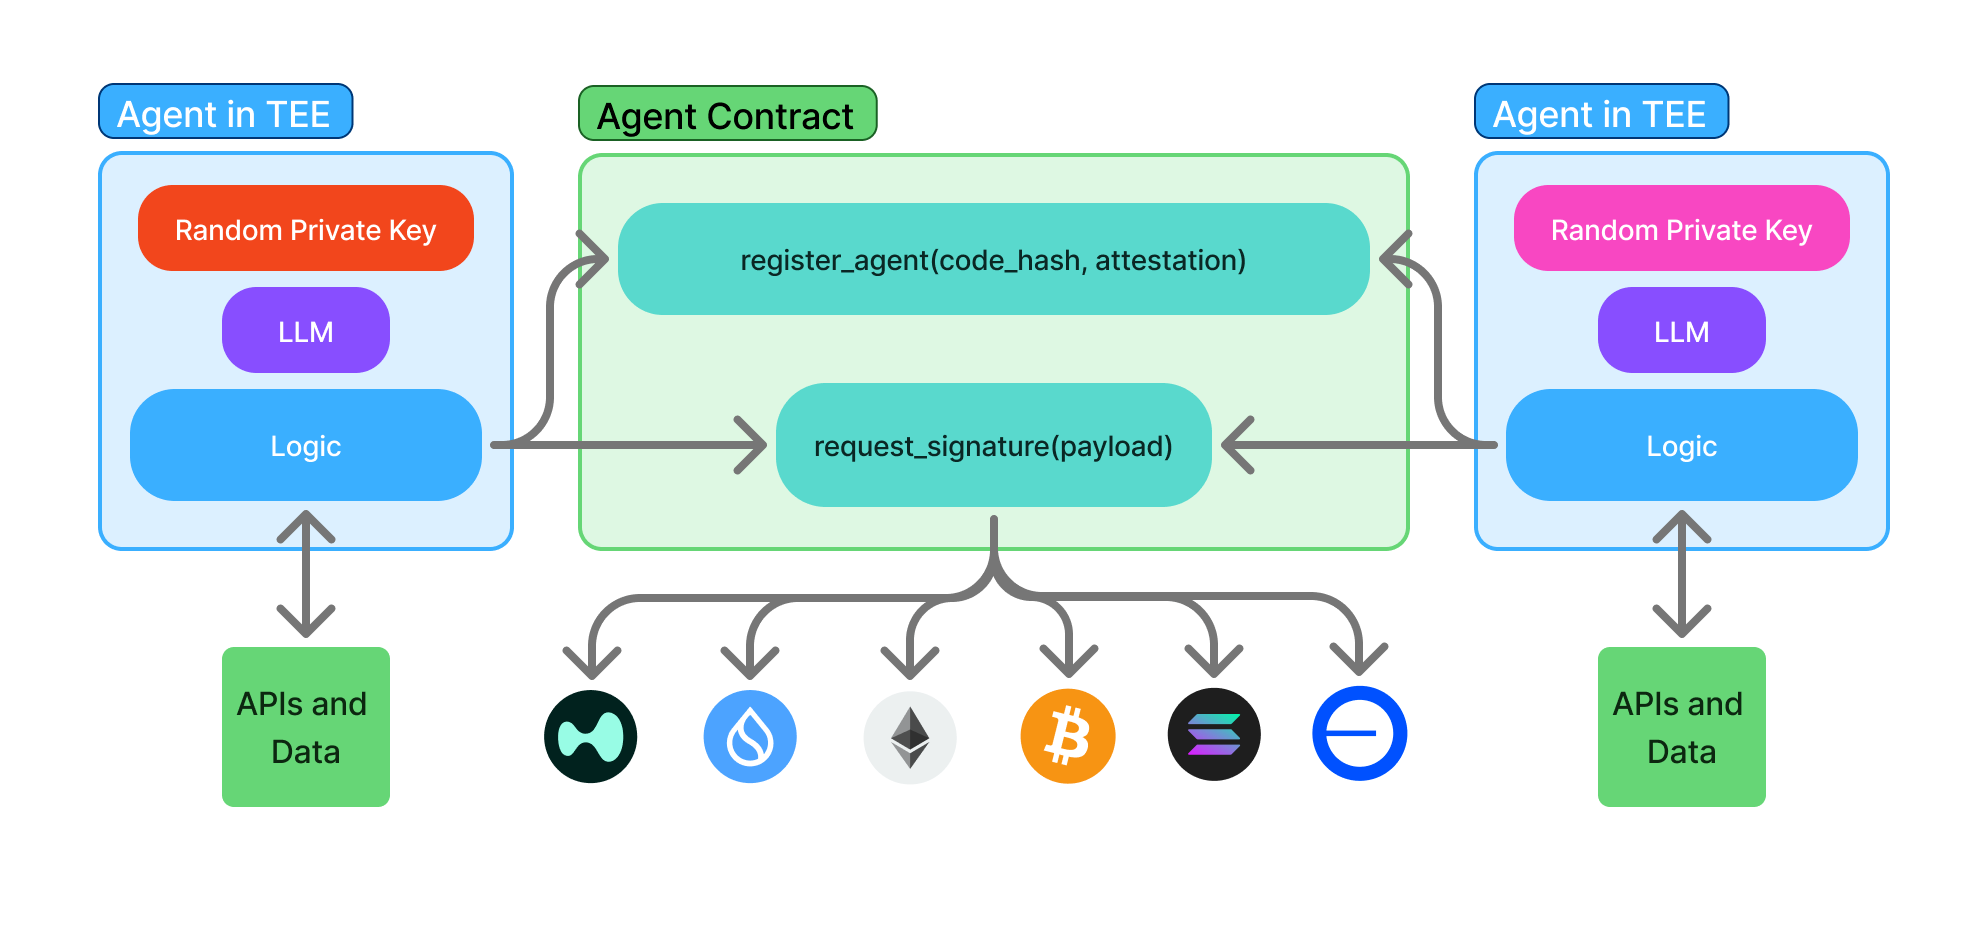
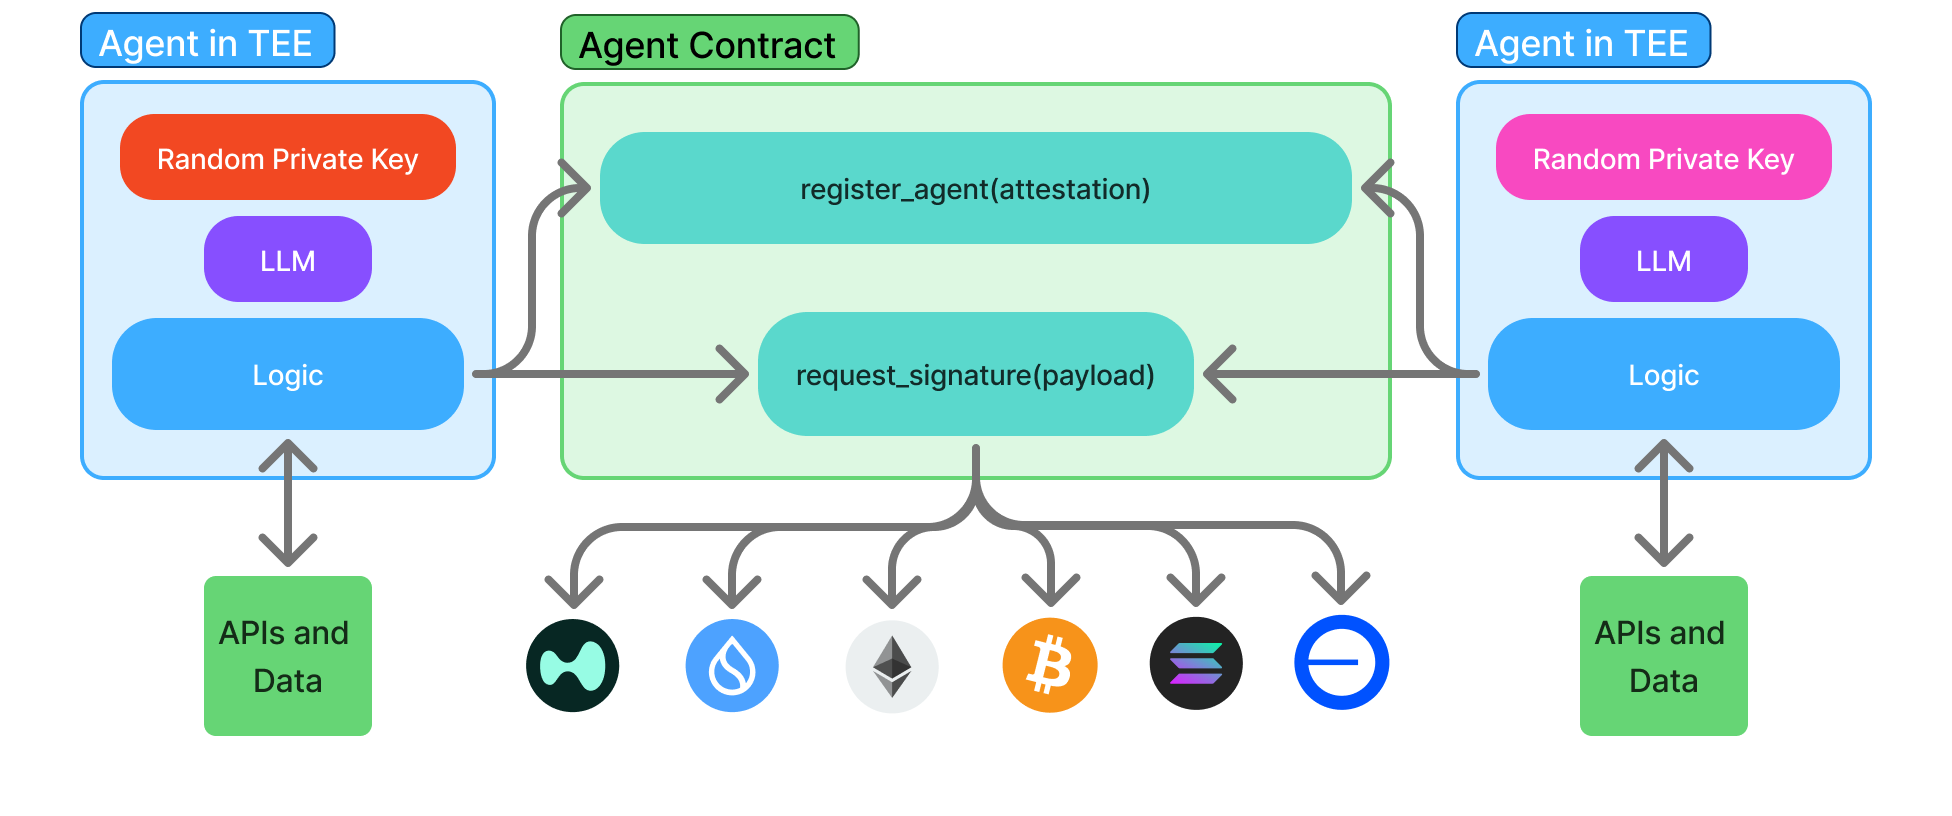
update shade intro roughly

Changed region(s): [[0.0312, 0.0, 0.9688, 0.9191]]

diff --git a/docs/ai/shade-agents/getting-started/introduction.md b/docs/ai/shade-agents/getting-started/introduction.md
@@ -5,6 +5,8 @@ sidebar_label: What are Shade Agents?
 description: "Learn about Shade Agents - decentralized and trustless AI agents that control accounts and assets across multiple blockchains using TEEs and NEAR's decentralized key management."
 ---
 
+import { SigsSupport } from '@site/src/components/sigsSupport';
+
 :::warning
 The Shade Agent Framework is experimental and contains known critical vulnerabilities.
 
@@ -15,17 +17,15 @@ No representations or warranties are made regarding security, correctness, or fi
 A production-ready version of the framework is currently in development.
 :::
 
-import { SigsSupport } from '@site/src/components/sigsSupport';
-
-The Shade Agent Framework allows developers to build decentralized and trustless AI agents that control accounts and assets across multiple blockchains.
+The Shade Agent Framework is a suite of tools for creating Web3 agents and off-chain services that are trust-minimized, decentralized, and verifiable. It leverages on-chain signing allowing agents to hold assets and sign transactions on most blockchains and implement strict guardrails to prevent unauthorized actions.
 
 Previous Web3 agents fall into one of two categories:
 1. They are trustless and verifiable by using a trusted execution environment (TEE), but if the TEE goes down, the private keys and funds of the agent are lost.
 2. The agent’s accounts are persistent, but the agents are centralized.
 
-Shade Agents provide verifiability and non-custody by operating in TEEs, but also persistent control of accounts by using NEAR's decentralized key management. Any instance of an agent running the same code inside a TEE can access the same accounts meaning you don't need to worry about private keys being lost or exposed. 
+Shade Agents provide verifiability and non-custody by operating in TEEs, but also persistent control of accounts by using NEAR's decentralized key management. Any instance of an agent running the same code inside a TEE can access the same accounts, meaning you don't need to worry about private keys being lost or exposed. 
 
-Thanks to combining TEEs with the NEAR tech stack, Shade Agents can autonomously sign transactions across any chain, interact with AI models and external data sources, manage assets, and perform privacy-preserving, verifiable computations, offering the flexibility and performance of Web2 with the verifiability of Web3.
+Thanks to combining TEEs with the NEAR tech stack, Shade Agents can autonomously sign transactions across most chains, interact with AI models and external data sources, manage assets, and perform privacy-preserving, verifiable computations, offering the flexibility and performance of Web2 with the verifiability of Web3.
 
 :::info
 Shade Agents power [Agentic Protocols](../concepts/what-can-you-build.md#agentic-protocols): a new type of decentralized application designed to be autonomous, proactive, and intelligent.
@@ -39,56 +39,60 @@ Shade Agents consist of two main components: the `agent` and the `agent smart co
 
 ![Shade Agent Architecture](/assets/docs/ai/shade-agent-stack-diagram.png)
 
-When an agent is booted up in a TEE, the `TEE's hardware-based entropy` generates a random private key and account. This private key is exclusively used to call the agent contract, not for storing funds.
+When an agent is booted up in a TEE, it generates a random ephemeral private key and NEAR account. This private key is exclusively used to call the agent contract, not for storing funds.
 
 <details>
 
 <summary>What is a TEE?</summary>
 
-A trusted execution environment is a secure area of a CPU that runs code in an isolated and protected way. This means one can verify that the expected code is running and its execution is not exposed outside of the enclave. TEEs produce attestations to prove that the code is running within a TEE and that it's running the specified code.
+A trusted execution environment is a secure part of a CPU that runs code in an isolated and protected way. Execution and state stay private, including from the host. TEEs produce cryptographic attestations that prove it's running certain code inside a genuine TEE.
 
 </details>
 
-The agent calls the `register_agent` function on the `agent smart contract`, providing two pieces of information generated inside the TEE:
-- A `remote attestation quote` (which proves it is running inside a genuine TEE).
-- The Docker image's SHA256 `code hash` (to prove that the expected code is running).
+The agent calls the `register_agent` function on the `agent smart contract`, providing its `attestation`. The attestation contains: 
+- A proof that it's running inside a genuine TEE.
+- The [measurements](../concepts/terminology.md#measurements) of the code running in the TEE (which uniquely identifies the code and platform it's running on).
 
-If the attestation quote is valid and the code hash matches the expected code hash of the agent (defined during the agent contract's deployment), the agent's account is approved as a valid agent inside the agent contract.
+If the attestation is valid, the measurements fit the approved measurements in the contract, and it's running on a certain machine (identified by a [PPID](../concepts/terminology.md#ppid)), then the agent's account is registered inside the agent contract.
 
-Once registered, the `agent` can call the `request_signature` function on the agent contract, enabling it to sign transactions on behalf of the Shade Agent. `request_signature` leverages [chain signatures](../../../chain-abstraction/chain-signatures.md) for decentralized key management, allowing the Shade Agent to hold assets and sign transactions on nearly any chain.
+Once registered, the `agent` can call the agent-gated functions on the agent contract. An example of this is the `request_signature` function, enabling it to sign transactions on behalf of the Shade Agent. `request_signature` leverages [chain signatures](../../../chain-abstraction/chain-signatures.md) for decentralized key management, allowing the Shade Agent to hold assets and sign transactions on nearly any chain.
 
-`Anyone` can deploy the same Docker image of the `agent` to a different TEE. Since the Docker image will have the same code hash, it can then be registered as a new valid agent, and thus gain access to signing transactions using the Shade Agent's accounts. This means the accounts are persisted across different TEE instances. To facilitate this functionality, agents are designed to be stateless.
+If `anyone` deploys the same code to a different TEE with the same measurements and PPID, it can also register in the contract, and thus gain access to signing transactions using the Shade Agent's accounts. This means the accounts are persisted across different TEE instances. To facilitate this functionality, agents are designed to be stateless.
 
 ---
 
 ## Agent Contract Functions
 
-The Agent Contract has three main functions:
+The Agent Contract has four main functions:
 
-#### Approve Code Hash
+#### Approve Measurements
 
-After the contract is deployed, a `code hash` is set to ensure that only agents running the correct code (i.e. it has the same code hash) can be registered in the agent contract.
+After the contract is deployed, a set of `measurements` is set to ensure that only agents running the correct code (i.e. it has the same measurements) can be registered in the agent contract.
 
-Developers or protocols may need to modify the code running inside agents over time. Because of this, when the contract is initialized an `owner` account ID is set. Only the owner can approve a new `code hash`.
+Developers or protocols may need to modify the code running inside agents over time. Because of this, when the contract is initialized, an `owner` account ID is set. Only the owner can approve a new set of `measurements`.
 
-The `shade-agent-cli` handles the deployment of the agent contract and automatically approves the code hash of your agent.
+The `shade-agent-cli` handles the deployment of the agent contract and automatically approves the measurements of your agent.
 
 :::tip
-Upgradeability can be designed for the specific use case. Common upgrade methods include approving a new code hash through DAO voting or implementing a grace period or cool down, allowing users to withdraw funds if they're uncomfortable with the incoming code hash for the new agent.
+Upgradeability can be designed for the specific use case. Common upgrade methods include approving a new set of measurements through DAO voting or implementing a grace period or cool down, allowing users to withdraw funds if they're uncomfortable with the incoming measurements for the new agent.
 :::
+
+#### Approve PPIDs
+
+Similar to how measurements are approved, the owner also approves a set of `PPIDs` to ensure that only agents running on specific machines can register.
 
 #### Register Agent
 
-The `register_agent` function verifies that the agent is running in a TEE and executing the expected code (as defined by the approved code hash). Upon successful verification, the agent's account ID becomes registered and gains access to transaction signing (request_signature).
+The `register_agent` function verifies that the agent is running in a TEE, is executing the expected code (as defined by the approved measurements), and is running on a certain machine (as defined by the approved PPIDs). Upon successful verification, the agent's account ID becomes registered and gains access to agent-gated functions.
 
-The `shade-agent-api` automatically registers the agent when booting up in the TEE.
+The `shade-agent-api` makes it easy to register; just use the `register` method.
 
 #### Request Signature
 
 The `request_signature` function serves as the gateway to access the Shade Agent's multichain accounts and sign transactions. It employs `method access control` so that only registered agents can use this function. 
 
 :::tip
-Developers should not sign transactions from the agents themselves (except for functions on the agent contract) as these accounts will be lost if the agent goes down. The magic of Shade Agents is that the multichain accounts are tied to the agent contract, which are persistent and accessible by any instance of a valid agent.
+Developers should not sign transactions from the agents themselves (except for functions on the agent contract), as these accounts will be lost if the agent goes down. The magic of Shade Agents is that the multichain accounts are tied to the agent contract, which are persistent and accessible by any instance of a valid agent.
 :::
 
 The request signature function accepts three arguments:
@@ -99,7 +103,7 @@ The request signature function accepts three arguments:
 The `shade-agent-api` exposes the `requestSignature` function to sign transactions on behalf of the Shade Agent within your agent.
 
 :::tip
-Within agent gated functions, you can implement an additional layer of security to strictly limit the Shade Agent's actions. For example, it could be restricted to only create transactions for Solana, perform swaps but not transfers, or transfer a maximum of 1 ETH per day.
+`request_signature` is only an example of an agent-gated function. You can implement any function you want on the agent contract. It's recommended to implement [on-chain guardrails](../concepts/terminology.md#on-chain-guardrails) to prevent unauthorized actions even in the case of a compromised TEE.
 :::
 
 ---
@@ -108,9 +112,7 @@ Within agent gated functions, you can implement an additional layer of security 
 
 The agent is just a backend service that runs inside a TEE instead of a centralized server. You can run the agent on an internal cron job, respond to actions, or it can expose API routes that can be called.
 
-Agents can be written in virtually any programming language and use any framework, as long as you can build a `Docker image` for your program.
-
-If you require a custom agent contract, which not all use cases do, then these are written in Rust.
+Agents are written in TypeScript/JavaScript using the `shade-agent-api` and agent contracts are written in Rust.
 
 ---
 

diff --git a/docs/ai/shade-agents/concepts/terminology.md b/docs/ai/shade-agents/concepts/terminology.md
@@ -11,7 +11,9 @@ Below are the main terms and concepts used in the Shade Agent Framework.
 
 ## Shade Agent Framework
 
-The Shade Agent Framework is a suite of tools for creating Web3 agents and off-chain services that are trust-minimized, decentralized and verifiable. It includes the Shade Agent API, the Shade Agent CLI and an agent contract template. The framework aims to abstract most of the underlying TEE and blockchain interactions so you can focus on building your application.
+The Shade Agent Framework is a suite of tools for creating Web3 agents and off-chain services that are trust-minimized, decentralized, and verifiable. It leverages on-chain signing to allow agents to to hold assets and sign transactions on most blockchains and implement strict guardrails to prevent unauthorized actions.
+
+It includes the Shade Agent API, the Shade Agent CLI, and an agent contract template. The framework aims to abstract most of the underlying TEE and blockchain interactions so you can focus on building your application.
 
 ---
 
@@ -23,7 +25,7 @@ A Shade Agent is an application built using the Shade Agent Framework. See the [
 
 ## Agent
 
-In the Shade Agent Framework an agent is a single instance of the off-chain code running inside a TEE (or locally in development) that uses the Shade Agent API. One agent contract can have many registered agents: they may run the same code for redundancy or different code for different tasks.
+In the Shade Agent Framework, an agent is a single instance of the off-chain code running inside a TEE (or locally in development) that uses the Shade Agent API. One agent contract can have many registered agents: they may run the same code for redundancy or different code for different tasks.
 
 ---
 
@@ -53,19 +55,19 @@ The agent contract can sign transactions for most chains via NEAR's [chain signa
 
 ## TEE
 
-A trusted execution environment is a secure part of a CPU that runs code in an isolated and protected way. Execution and state stay private, including from the host. TEEs produce attestations that prove both that code is running inside a TEE and that it is the expected code.
+A trusted execution environment is a secure part of a CPU that runs code in an isolated and protected way. Execution and state stay private, including from the host. TEEs produce cryptographic attestations that prove it's running certain code inside a genuine TEE.
 
 ---
 
 ## Local
 
-Local mode means the agent runs on your machine (or any non-TEE environment) instead of inside a TEE. There is no real attestation; and the contract uses a whitelist of allowed account IDs instead. Use local mode for development and testing only, not for production.
+Local mode means the agent runs on your machine (or any non-TEE environment) instead of inside a TEE. There is no real attestation, and the contract uses a whitelist of allowed account IDs instead. Use local mode for development and testing only, not for production.
 
 ---
 
 ## Registering an agent
 
-An agent registers with an agent contract by calling the `register_agent` method which verifies it has a valid attestation, on success the agent will be stored in the contract's state with its measurements, PPID and validity period. 
+An agent registers with an agent contract by calling the `register_agent` method, which verifies it has a valid attestation. On successful registration the agent will be stored in the contract's state with its measurements, PPID, and validity period. 
 
 ---
 
@@ -77,34 +79,34 @@ The whitelist is a set of NEAR account IDs that are allowed to register when the
 
 ## Valid agent
 
-A valid agent is one that has is registered with the agent contract and still has measurements and a PPID that are approved and its registration has not expired. Valid agents can call agent-gated methods.
+A valid agent is one that is registered with the agent contract and still has measurements and a PPID that are approved, and its registration has not expired. Valid agents can call agent-gated methods.
 
 
 ---
 
 ## Attestation
 
-An attestation is a cryptographic proof produced by a TEE that the application is running inside a genuine TEE. The agent submits its attestation when registering with the agent contract and the contract verifies that its a genuine attestation, and checks that the attestation contains a set of approved measurements and an approved PPID.
+An attestation is a cryptographic proof produced by a TEE that the application is running inside a genuine TEE. The agent submits its attestation when registering with the agent contract, and the contract verifies that it's a genuine attestation, and checks that the attestation contains a set of approved measurements and an approved PPID.
 
 ---
 
 ## Approved measurements
 
-The measurements are hashes that uniquely identify the code running in the TEE, and the platform it's running on. The agent contract stores a list of approved measurements which can be updated by the owner of the contract. There are 6 measurements: 
+The measurements are hashes that uniquely identify the code running in the TEE, and the platform it's running on. The agent contract stores a list of approved measurements, which can be updated by the owner of the contract. There are 6 measurements: 
 - **MRTD**: measures the initial setup of the trusted domain. This is constant.
 - **RTMR0**: measures the virtual hardware. This is constant for a given number of vCPUs and memory allocation.
 - **RTMR1**: measures the kernel. This is constant.
 - **RTMR2**: measures the Dstack image version. This is constant for a given Dstack image version.
-- **Key provider digest**: measures the key provider of the TEE. By default Shade Agents contain Phala's key providers but don't actually use it since it uses a local key provider. This is constant for Phala's key provider.
+- **Key provider digest**: measures the key provider of the TEE. By default, Shade Agents contain Phala's key providers but don't actually use it since it uses a chain signatures for decentralized key management instead. This is constant for Phala's key provider.
 - **App compose hash**: measures the application. This is constant for a given Docker Compose file and app layer configurations.
 
 ---
 
 ## PPID
 
-The PPID (Provisioning Platform ID) is a unique identifier of a physical TEE machine. Recent exploits to TEEs have been due to attackers having physical access to the machine, revealing that the physical location of the machine is important in TEE security. By setting approved PPIDs the agent contract can ensure that only agents running on specific machines can register. You should approve PPIDs for machines known to be located in secure data centers. By default the CLI approves all PPIDs for Phala Cloud.
+The PPID (Provisioning Platform ID) is a unique identifier of a physical TEE machine. Recent exploits of TEEs have been due to attackers having physical access to the machine, revealing that the physical location of the machine is important in TEE security. By setting approved PPIDs, the agent contract can ensure that only agents running on specific machines can register. You should approve PPIDs for machines known to be located in secure data centers. By default, the CLI approves all PPIDs for Phala Cloud.
 
-Note that on Phala Cloud two different deployments can have the same PPID if they are running on the same server since resources are virtualized.
+Note that on Phala Cloud, two different deployments can have the same PPID if they are running on the same server, since resources are virtualized.
 
 ---
 
